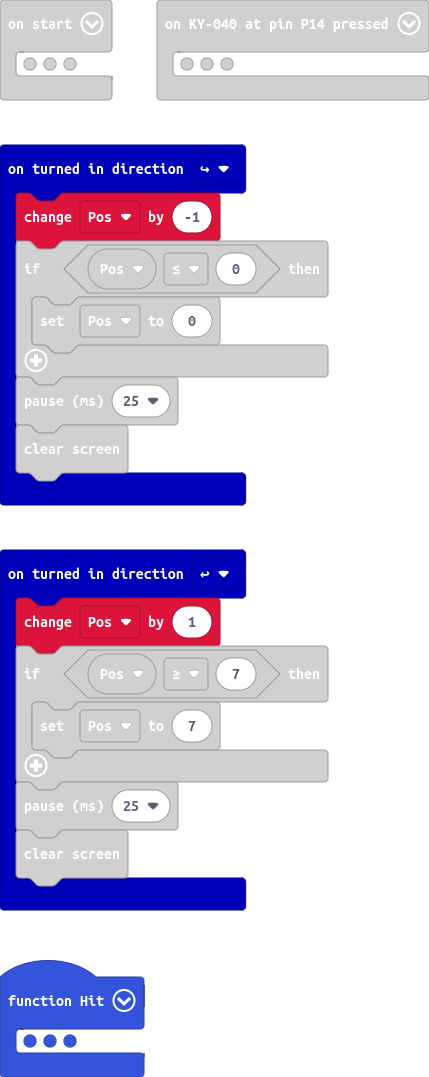
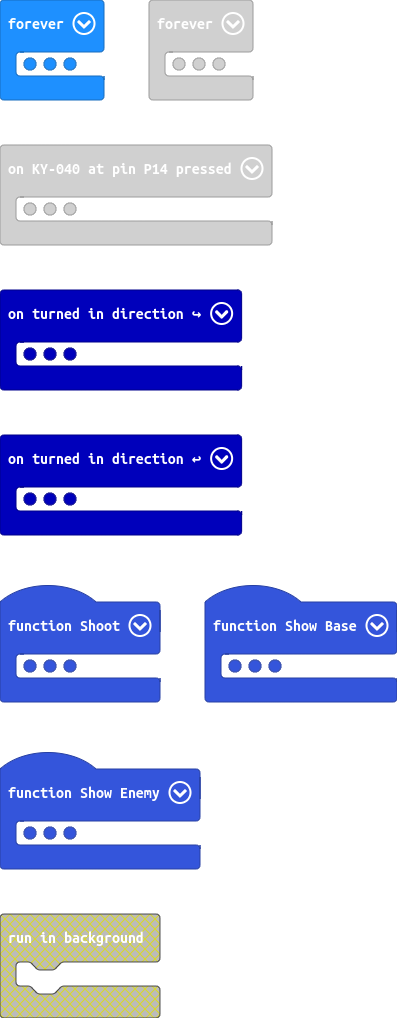
define main functions

diff --git a/main.ts b/main.ts
@@ -1,4 +1,17 @@
 KY040.OnPinPressed(DigitalPin.P14, function () {
+    Shoot()
+})
+function Show_Enemy () {
+    callimatrix.SetMatrixColorbright(0xff0000, 7, Enemy)
+    callimatrix.callimatrix_show()
+}
+function Show_Base () {
+    callimatrix.SetMatrixColorbright(0x000000, 0, Pos + 1, cbrightness.hp6)
+    callimatrix.SetMatrixColorbright(0x000000, 0, Pos - 1, cbrightness.hp6)
+    callimatrix.SetMatrixColorbright(0x00ff00, 0, Pos, cbrightness.hp6)
+    callimatrix.callimatrix_show()
+}
+function Shoot () {
     basic.showIcon(IconNames.Sword)
     for (let index = 0; index <= 7; index++) {
         callimatrix.SetMatrixColorbright(0xffff00, index + 1, Pos, cbrightness.hp2)
@@ -13,7 +26,7 @@ KY040.OnPinPressed(DigitalPin.P14, function () {
     }
     basic.pause(200)
     basic.clearScreen()
-})
+}
 KY040.onTurned(direction.clockwise, function () {
     Pos += 1
     if (Pos >= 7) {
@@ -50,15 +63,8 @@ callimatrix.callimatrix_show()
 Enemy = randint(0, 7)
 basic.pause(1000)
 basic.forever(function () {
-    callimatrix.SetMatrixColorbright(0xff0000, 7, Enemy)
-    callimatrix.callimatrix_show()
+    Show_Enemy()
 })
 basic.forever(function () {
-    callimatrix.SetMatrixColorbright(0x000000, 0, Pos + 1, cbrightness.hp6)
-    callimatrix.SetMatrixColorbright(0x000000, 0, Pos - 1, cbrightness.hp6)
-    callimatrix.SetMatrixColorbright(0x00ff00, 0, Pos, cbrightness.hp6)
-    callimatrix.callimatrix_show()
-})
-control.inBackground(function () {
-	
+    Show_Base()
 })
